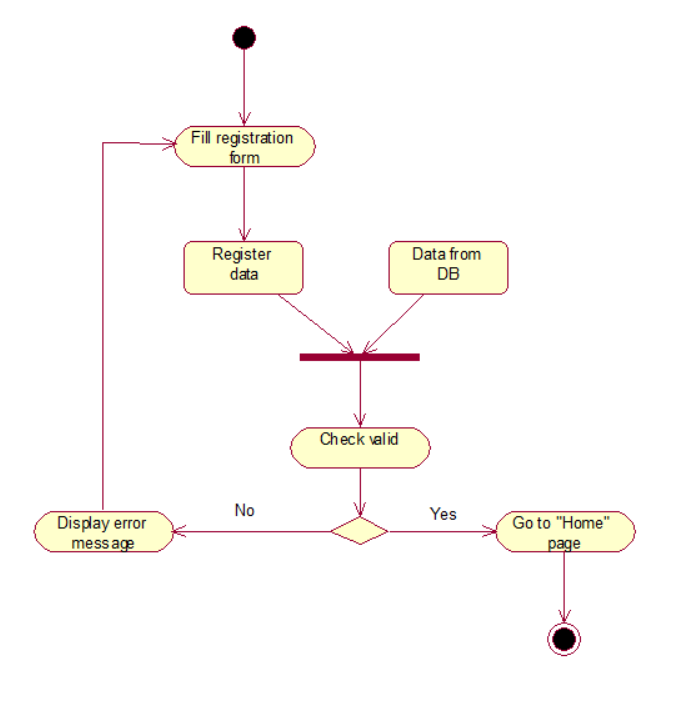
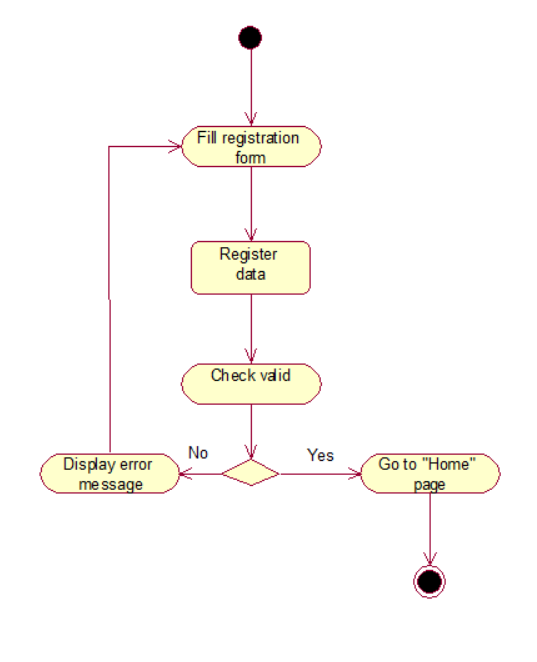
Add Sequence Diagram, fixed Activity diagrams

Changed region(s): [[0.0298, 0.0302, 0.9534, 0.9366]]

diff --git a/Documentation/Diagrams/Diagrams.md b/Documentation/Diagrams/Diagrams.md
@@ -239,4 +239,4 @@
 ### 3. Диаграмма последовательности
 Диаграмма последовательности основных вариантов использования представлена ниже:
 
-![Sequence Diagram](./Sequence/)
+![Sequence Diagram](./Sequence/SequenceDiagram.png)
